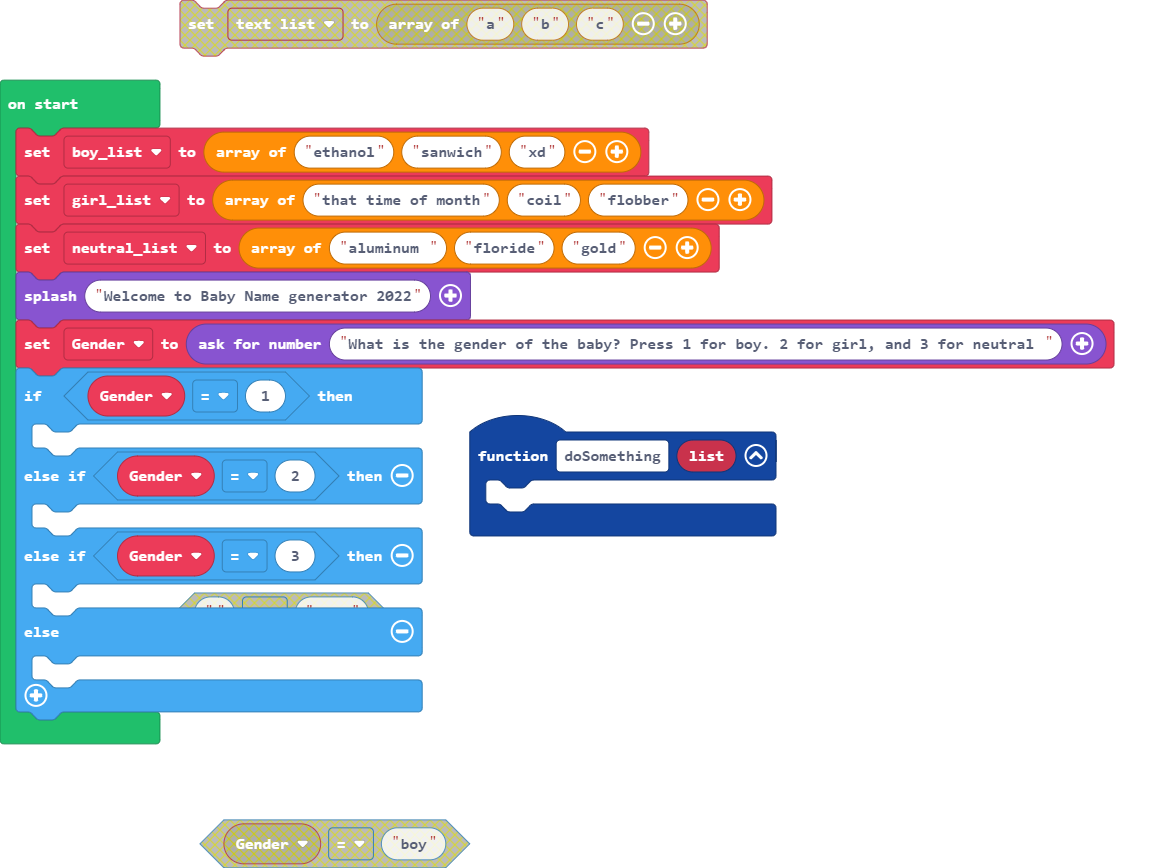
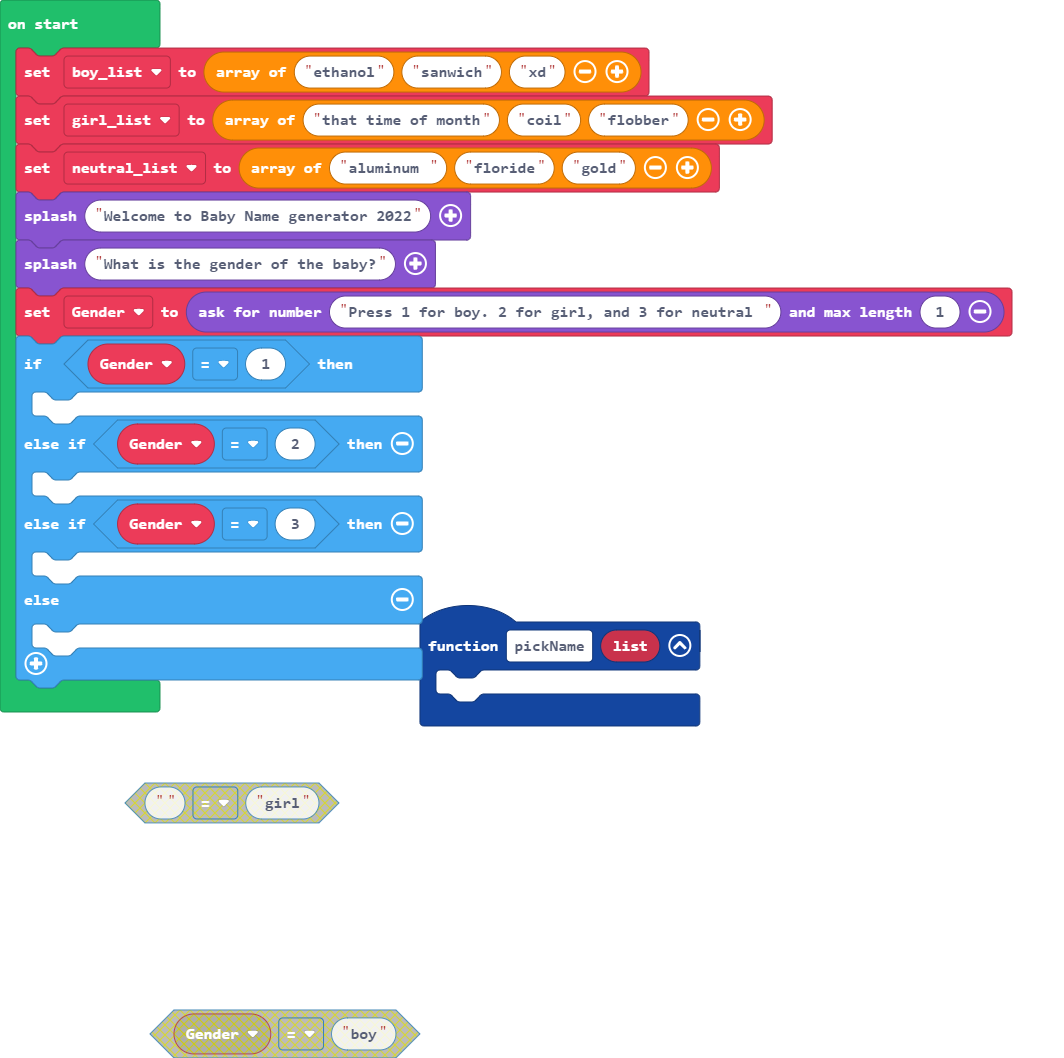
Update main.blocks, main.ts

diff --git a/main.ts b/main.ts
@@ -1,11 +1,12 @@
-function doSomething (list: any[]) {
+function pickName (list: any[]) {
 	
 }
 let boy_list = ["ethanol", "sanwich", "xd"]
 let girl_list = ["that time of month", "coil", "flobber"]
 let neutral_list = ["aluminum ", "floride", "gold"]
 game.splash("Welcome to Baby Name generator 2022")
-let Gender = game.askForNumber("What is the gender of the baby? Press 1 for boy. 2 for girl, and 3 for neutral ")
+game.splash("What is the gender of the baby?")
+let Gender = game.askForNumber("Press 1 for boy. 2 for girl, and 3 for neutral ", 1)
 if (Gender == 1) {
 	
 } else if (Gender == 2) {
